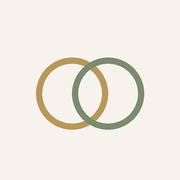
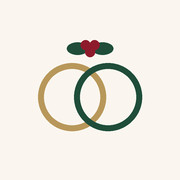
Thème « Noël au mariage » : vert sapin, bordeaux, or, neige légère, icône houx, filtre Hiver
Claude-Session: https://claude.ai/code/session_01UP6TXLvuPQBKZSD7SDyBrv

Changed region(s): [[0.1944, 0.2222, 0.8056, 0.75]]

diff --git a/style.css b/style.css
@@ -1,11 +1,12 @@
-/* Couleurs du mariage : à changer ici, tout le reste suit. */
+/* Couleurs du mariage, thème « Noël au mariage » : à changer ici, tout le reste suit. */
 :root {
-  --fond: #F7F3EC;      /* ivoire */
+  --fond: #FAF6EF;      /* ivoire */
   --carte: #FFFFFF;
-  --texte: #2E2A26;
-  --doux: #8A8178;
-  --trait: #E6DED2;
-  --accent: #7A8B6F;    /* vert sauge */
+  --texte: #2B2623;
+  --doux: #857B72;
+  --trait: #E9E0D2;
+  --accent: #1F4D3A;    /* vert sapin */
+  --rouge: #8E1B2B;     /* rouge bordeaux */
   --or: #B8975A;
   --titre: "Cormorant Garamond", Georgia, serif;
   --corps: "Inter", system-ui, -apple-system, "Segoe UI", sans-serif;
@@ -14,6 +15,13 @@
 *, *::before, *::after { box-sizing: border-box; }
 [hidden] { display: none !important; }
 html, body { margin: 0; background: var(--fond); color: var(--texte); font: 16px/1.45 var(--corps); }
+body {
+  background-image:
+    radial-gradient(circle at 20% 30%, rgba(184,151,90,.13) 0 1.5px, transparent 2px),
+    radial-gradient(circle at 70% 60%, rgba(31,77,58,.08) 0 2px, transparent 2.5px),
+    radial-gradient(circle at 45% 85%, rgba(142,27,43,.07) 0 1.5px, transparent 2px);
+  background-size: 90px 90px, 130px 130px, 110px 110px;
+}
 main {
   max-width: 640px; margin: 0 auto; display: flex; flex-direction: column; gap: 16px;
   padding: max(20px, env(safe-area-inset-top)) max(16px, env(safe-area-inset-right)) 60px max(16px, env(safe-area-inset-left));
@@ -23,7 +31,9 @@ a { color: var(--accent); }
 /* En-tête */
 .hero { text-align: center; padding: 18px 0 4px; }
 .eyebrow { margin: 0; font-size: .75rem; font-weight: 600; letter-spacing: .2em; text-transform: uppercase; color: var(--or); }
-h1 { margin: 4px 0; font: 600 clamp(2.4rem, 11vw, 3.4rem)/1 var(--titre); }
+h1 { margin: 4px 0; font: 600 clamp(2.4rem, 11vw, 3.4rem)/1 var(--titre); color: var(--accent); }
+.hero::after { content: "❄ ✦ ❄"; display: block; margin-top: 8px; color: var(--or); letter-spacing: .5em; font-size: .8rem; }
+.date b { color: var(--rouge) !important; }
 .date { margin: 0; color: var(--doux); text-transform: capitalize; }
 .date b { color: var(--accent); text-transform: none; }
 .demo { display: inline-block; margin: 10px 0 0; padding: 4px 10px; border-radius: 999px; background: #FFF3D6; color: #7A5A12; font-size: .8rem; }
@@ -37,7 +47,7 @@ input[type=text], input:not([type]) { flex: 1; min-width: 0; padding: 11px 14px;
 .btn { display: inline-flex; align-items: center; justify-content: center; padding: 9px 14px; border-radius: 999px; border: 1px solid var(--trait);
   background: var(--carte); color: var(--texte); font: 600 .88rem var(--corps); text-decoration: none; cursor: pointer; }
 .btn.plein { background: var(--accent); border-color: var(--accent); color: #fff; }
-.pastille { display: inline-block; padding: 2px 9px; border-radius: 999px; background: #EEF1EA; color: var(--accent); font-size: .78rem; font-weight: 600; }
+.pastille { display: inline-block; padding: 2px 9px; border-radius: 999px; background: #E6EEE9; color: var(--accent); font-size: .78rem; font-weight: 600; }
 .pastille.or { background: #F5EDDD; color: #8A6B30; }
 .petit { font-size: .88rem; color: var(--doux); margin: 10px 0 0; }
 .err { color: #A23B2C; font-weight: 500; }
@@ -49,7 +59,7 @@ input[type=text], input:not([type]) { flex: 1; min-width: 0; padding: 11px 14px;
   -webkit-backdrop-filter: blur(8px); backdrop-filter: blur(8px); border-radius: 999px; border: 1px solid var(--trait); }
 .onglet { flex: 1; padding: 10px 8px; border: 0; border-radius: 999px; background: none; font: 600 .9rem var(--corps); color: var(--doux); cursor: pointer; }
 .onglet[aria-selected=true] { background: var(--carte); color: var(--texte); box-shadow: 0 1px 4px rgba(0, 0, 0, .08); }
-.nb { display: inline-block; min-width: 20px; padding: 0 6px; border-radius: 999px; background: var(--or); color: #fff; font-size: .75rem; }
+.nb { display: inline-block; min-width: 20px; padding: 0 6px; border-radius: 999px; background: var(--rouge); color: #fff; font-size: .75rem; }
 
 /* Programme : une frise verticale */
 .frise { list-style: none; margin: 0; padding: 0; }
@@ -65,7 +75,7 @@ input[type=text], input:not([type]) { flex: 1; min-width: 0; padding: 11px 14px;
 .lieu { display: inline-block; margin-top: 4px; font-size: .88rem; text-decoration: none; }
 .corps .pastille { margin-top: 8px; }
 .moment.passe { opacity: .45; }
-.moment.en-cours .corps { border-color: var(--accent); box-shadow: 0 0 0 3px rgba(122, 139, 111, .18); }
+.moment.en-cours .corps { border-color: var(--accent); box-shadow: 0 0 0 3px rgba(31, 77, 58, .18); }
 .moment.en-cours .corps::before { background: var(--accent); border-color: var(--accent); }
 .live { display: inline-block; margin-bottom: 4px; padding: 2px 8px; border-radius: 999px; background: var(--accent); color: #fff; font-size: .72rem; font-weight: 600; letter-spacing: .06em; text-transform: uppercase; }
 
@@ -119,7 +129,7 @@ input[type=text], input:not([type]) { flex: 1; min-width: 0; padding: 11px 14px;
 .vignette:focus-visible { outline: 3px solid var(--or); outline-offset: 2px; }
 .poster { position: fixed; left: 50%; transform: translateX(-50%); bottom: max(18px, env(safe-area-inset-bottom)); z-index: 10;
   border: 0; border-radius: 999px; padding: 15px 28px; background: var(--accent); color: #fff; font: 600 1.05rem var(--corps); cursor: pointer;
-  box-shadow: 0 8px 24px rgba(122,139,111,.45); }
+  box-shadow: 0 8px 24px rgba(31,77,58,.4); }
 .envoi { background: var(--carte); border: 1px solid var(--trait); border-radius: 14px; padding: 10px 14px; margin-bottom: 10px; display: flex; flex-direction: column; gap: 6px; font-size: .9rem; }
 .qr { text-align: center; display: flex; flex-direction: column; align-items: center; gap: 8px; }
 .qr h3 { margin: 0; font: 600 1.4rem var(--titre); }
@@ -191,6 +201,6 @@ html.plein-ecran, html.plein-ecran body { overflow: hidden; }
 #cam .cam-dots i.on{ background:#fff; transform:scale(1.3); }
 #cam .cam-send-row{ position:absolute; left:0; right:0; bottom:0; z-index:3; display:flex; align-items:center; justify-content:space-between; gap:12px;
   padding:0 max(16px, env(safe-area-inset-right,0px)) calc(22px + env(safe-area-inset-bottom,0px)) max(16px, env(safe-area-inset-left,0px)); }
-#cam .cam-send{ all:unset; cursor:pointer; padding:14px 22px; border-radius:999px; background:var(--accent); color:#fff; font:600 1rem var(--corps); box-shadow:0 6px 22px rgba(122,139,111,.45); }
+#cam .cam-send{ all:unset; cursor:pointer; padding:14px 22px; border-radius:999px; background:var(--accent); color:#fff; font:600 1rem var(--corps); box-shadow:0 6px 22px rgba(31,77,58,.4); }
 #cam .cam-send[disabled]{ opacity:.6; cursor:default; }
 #cam .cam-edit .cam-hint{ bottom:calc(92px + env(safe-area-inset-bottom,0px)); }

diff --git a/index.html b/index.html
@@ -7,7 +7,7 @@
 <!-- Sécurité : la page n'a le droit de charger que ses propres fichiers, les polices Google et de parler à Supabase -->
 <meta http-equiv="Content-Security-Policy" content="default-src 'self'; script-src 'self'; style-src 'self' 'unsafe-inline' https://fonts.googleapis.com; font-src https://fonts.gstatic.com; img-src 'self' data: blob: https://*.supabase.co; media-src 'self' blob: https://*.supabase.co; connect-src 'self' https://*.supabase.co; manifest-src 'self'; worker-src 'self'; object-src 'none'; base-uri 'none'; form-action 'none'">
 <meta name="referrer" content="no-referrer">
-<meta name="theme-color" content="#F7F3EC">
+<meta name="theme-color" content="#FAF6EF">
 <meta name="apple-mobile-web-app-capable" content="yes">
 <meta name="mobile-web-app-capable" content="yes">
 <meta name="apple-mobile-web-app-title" content="Mariage">

diff --git a/live.js b/live.js
@@ -309,7 +309,8 @@ const FILTRES = [
   ["Doré", (r, g, b) => [r * 1.08 + 14, g * 1.02 + 6, b * .82]],
   ["Vintage", (r, g, b) => { const sr = r * .393 + g * .769 + b * .189, sg = r * .349 + g * .686 + b * .168, sb = r * .272 + g * .534 + b * .131;
     return [(r * .35 + sr * .65) * .88 + 26, (g * .35 + sg * .65) * .88 + 22, (b * .35 + sb * .65) * .88 + 18]; }],
-  ["Doux", (r, g, b) => [r * .96 + 14, g * .96 + 12, b * .96 + 16]]
+  ["Doux", (r, g, b) => [r * .96 + 14, g * .96 + 12, b * .96 + 16]],
+  ["Hiver", (r, g, b) => [r * .92 + 6, g * .98 + 10, b * 1.1 + 22]]
 ];
 const CAM_REC = typeof MediaRecorder !== "undefined";
 let cam = null;

diff --git a/sw.js b/sw.js
@@ -1,7 +1,7 @@
 // Service worker : l'appli s'ouvre même sans réseau (programme et tâches du dernier chargement).
 // Pages et fichiers : on essaie le réseau d'abord (toujours la dernière version), sinon la copie gardée.
 // Les appels à Supabase ne passent pas par ici (autre domaine) : ils ne sont jamais mis en cache.
-const CACHE = "mariage-v3";
+const CACHE = "mariage-v4";
 const FICHIERS = ["./", "index.html", "style.css", "app.js", "config.js", "demo.js", "live.js", "vendor/qrcode.js", "manifest.webmanifest", "icon-192.png"];
 
 self.addEventListener("install", e => {

diff --git a/config.js b/config.js
@@ -3,7 +3,7 @@
 // Ne mets JAMAIS ici la clé secrète (secret / service_role).
 // Tant que supabaseUrl est vide, l'appli tourne en MODE DÉMO (données de demo.js).
 window.MARIAGE = {
-  maries: "Prénom & Prénom",   // affiché en grand en haut
+  maries: "Chaïna & …",   // affiché en grand en haut
   date: "2026-12-12",          // jour du mariage (AAAA-MM-JJ), sert au compte à rebours et à « maintenant »
   supabaseUrl: "https://evwxybkpdzqwndndcdnf.supabase.co",
   supabaseKey: "sb_publishable_0Q7V3bYlNEN2icImW11cPQ_dTQ4KJ42"
